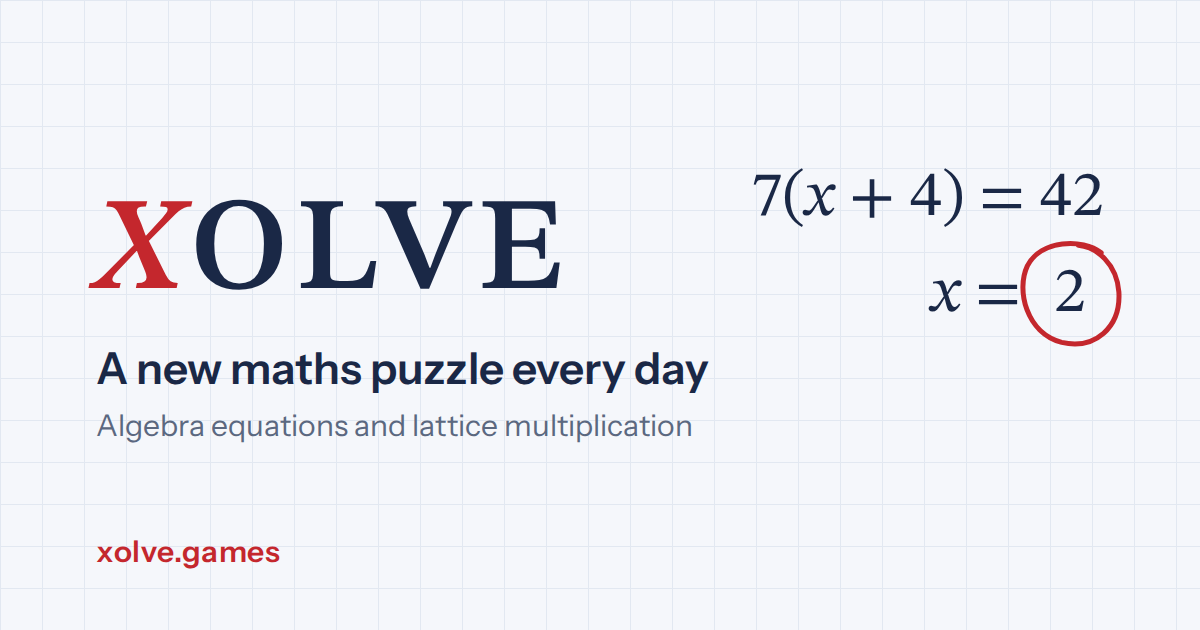
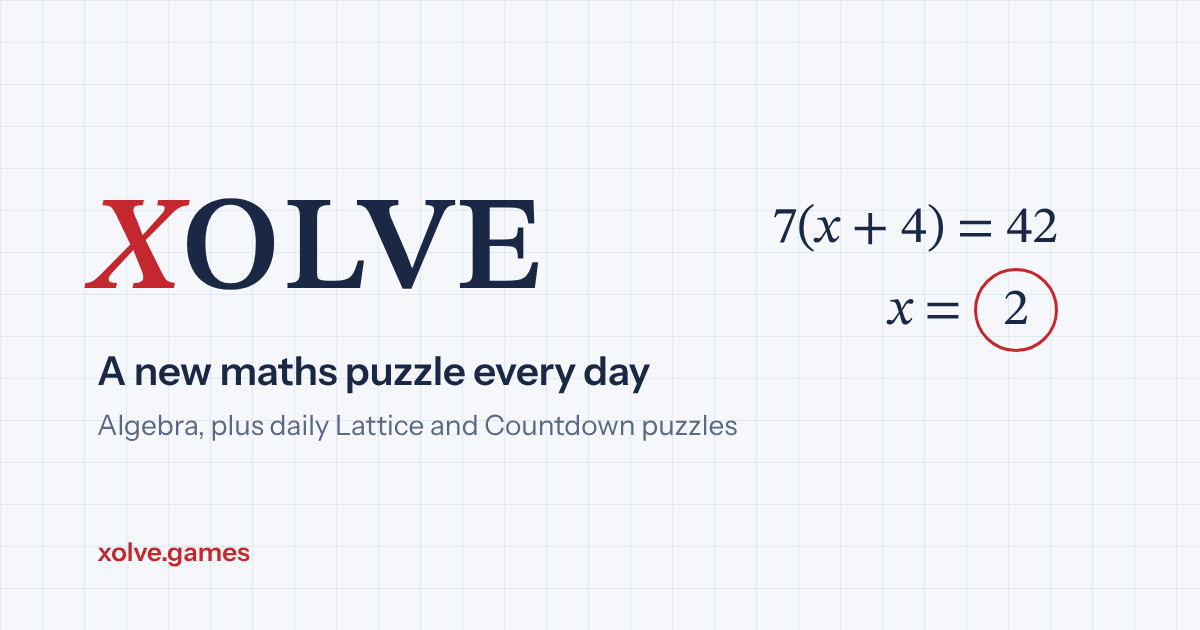
Give Lattice and Countdown their own addresses and preview cards
- shared/shell.js opens the game matching the address and updates it on tab switches
- Each game's share text links to its own address
- worker.js swaps title, description and preview image for /lattice and /countdown
- New preview images for Lattice and Countdown; home card subtitle mentions all three games
- Sitemap lists all three addresses; README documents the setup

Claude-Session: https://claude.ai/code/session_018mea3KdYw14ygfha638qX5

diff --git a/shared/shell.js b/shared/shell.js
@@ -71,6 +71,30 @@ const XolveShell = (() => {
   function register(id, game) { games[id] = game; order.push(id); }
 
   let curGame = null, mode = 'daily', today = null;
+
+  /* ---------- each game's address ----------
+     Algebra is the home page; the others have their own path. The server (worker.js)
+     sends each path its own title and link-preview card. Keep the two lists in step. */
+  const PATHS = { algebra: '/', lattice: '/lattice', countdown: '/countdown' };
+  const TITLES = {
+    algebra: 'XOLVE: a daily algebra puzzle',
+    lattice: 'XOLVE Lattice: a daily multiplication puzzle',
+    countdown: 'XOLVE Countdown: a daily numbers puzzle',
+  };
+  const served = /^https?:$/.test(location.protocol); // addresses only mean anything over HTTP
+  function gameFromPath() {
+    if (!served) return null;
+    const p = location.pathname.replace(/\/+$/, '').toLowerCase() || '/';
+    return Object.keys(PATHS).find((g) => PATHS[g] === p && games[g]) || null;
+  }
+  /* Point the address bar at game g. push: true adds a history entry (a tab tap), false replaces it. */
+  function setAddress(g, push) {
+    if (TITLES[g]) document.title = TITLES[g];
+    if (!served || !PATHS[g] || location.pathname === PATHS[g]) return;
+    try { history[push ? 'pushState' : 'replaceState']({ game: g }, '', PATHS[g] + location.search); } catch (e) {}
+  }
+  /* Full link to a game, for share text. */
+  const linkFor = (g) => 'https://xolve.games' + (PATHS[g] === '/' ? '' : PATHS[g]);
   /* The saved practice level, or medium (or the game's first level if it has no medium). */
   function levelFor(g) {
     const ids = (games[g].levels || []).map((l) => l.id), saved = store.get(games[g].levelKey);
@@ -84,8 +108,9 @@ const XolveShell = (() => {
   }
 
   /* ---------- navigation: pick a game, then Today / Archive / Practice ---------- */
-  function go(g, m) {
+  function go(g, m, push) {
     if (curGame) games[curGame].close();
+    setAddress(g, push !== false && curGame !== null && g !== curGame);
     if (m === 'practice' && games[g].practice === false) m = 'daily';
     curGame = g; mode = m;
     document.querySelector('.mode[data-mode="practice"]').hidden = games[g].practice === false;
@@ -189,6 +214,11 @@ const XolveShell = (() => {
     $('btnHelp').addEventListener('click', () => games[curGame].openHelp());
     $('btnBook').addEventListener('click', () => games[curGame].openBook());
     $('btnTheme').addEventListener('click', toggleTheme);
+    /* Back and forward between games. */
+    window.addEventListener('popstate', () => {
+      const g = gameFromPath() || order[0];
+      if (g !== curGame) go(g, mode === 'practice' && games[g].practice === false ? 'daily' : mode, false);
+    });
     darkQuery.addEventListener('change', applyTheme);
     $('introHow').addEventListener('click', () => games[curGame].openHelp());
     $('introClose').addEventListener('click', dismissIntro);
@@ -209,9 +239,9 @@ const XolveShell = (() => {
     $('intro').hidden = !!introSeen();
     wire();
     syncClock().then(() => {
-      const deps = { store, nowDate, dayInfo: Cal.dayInfo, infoFromEpoch: Cal.infoFromEpoch, toast, fmtTime, fmtDay, share: copyText, go };
+      const deps = { store, nowDate, dayInfo: Cal.dayInfo, infoFromEpoch: Cal.infoFromEpoch, toast, fmtTime, fmtDay, share: copyText, go, linkFor };
       order.forEach((g) => games[g].init(deps));
-      go(order[0], 'daily');
+      go(gameFromPath() || order[0], 'daily', false);
       setInterval(tick, 1000);
       setInterval(syncClock, 15 * 60 * 1000);
     });

diff --git a/worker.js b/worker.js
@@ -1,0 +1,62 @@
+/*
+ * XOLVE server script (Cloudflare Worker).
+ *
+ * Every file in the repo is served as-is by Cloudflare's static assets, and this script
+ * only runs for addresses that aren't a file, such as /lattice and /countdown.
+ * For those it sends the same index.html as the home page, with that game's title,
+ * description and link-preview image swapped in, so a shared link shows the right
+ * card in Discord, WhatsApp and so on. The page then opens the game from the address
+ * (see PATHS in shared/shell.js; keep the two lists in step).
+ */
+const SITE = 'https://xolve.games';
+
+const PAGES = {
+  '/lattice': {
+    title: 'XOLVE Lattice: a daily multiplication puzzle',
+    ogTitle: 'XOLVE Lattice: daily multiplication puzzles',
+    description: "Fill in the missing digits of today's lattice multiplication grid. A new puzzle every day, with hints that explain each step and streaks.",
+    image: '/images/og-lattice.png',
+    imageAlt: 'XOLVE Lattice: a lattice multiplication grid for 47 × 36',
+  },
+  '/countdown': {
+    title: 'XOLVE Countdown: a daily numbers puzzle',
+    ogTitle: 'XOLVE Countdown: daily numbers puzzles',
+    description: "Reach today's target with six numbers and + − × ÷ in 60 seconds, like the numbers round on Countdown. A new puzzle every day, with streaks.",
+    image: '/images/og-countdown.png',
+    imageAlt: 'XOLVE Countdown: the target 341 above six number tiles',
+  },
+};
+
+/* Sets one attribute on every element the selector matches. */
+const setAttr = (attr, value) => ({ element(el) { el.setAttribute(attr, value); } });
+
+export default {
+  async fetch(request, env) {
+    const url = new URL(request.url);
+    const path = url.pathname.toLowerCase();
+    const bare = path.replace(/\/+$/, '');
+
+    if (PAGES[bare]) {
+      // One address per game: /Countdown/ and friends go to /countdown.
+      if (url.pathname !== bare) return Response.redirect(SITE + bare + url.search, 301);
+
+      const page = PAGES[bare];
+      const home = await env.ASSETS.fetch(new Request(new URL('/', url), { method: request.method, headers: request.headers }));
+      if (!home.ok) return home;
+      const full = SITE + bare;
+      return new HTMLRewriter()
+        .on('title', { element(el) { el.setInnerContent(page.title); } })
+        .on('meta[name="description"]', setAttr('content', page.description))
+        .on('link[rel="canonical"]', setAttr('href', full))
+        .on('meta[property="og:url"]', setAttr('content', full))
+        .on('meta[property="og:title"]', setAttr('content', page.ogTitle))
+        .on('meta[property="og:description"]', setAttr('content', page.description))
+        .on('meta[property="og:image"]', setAttr('content', SITE + page.image))
+        .on('meta[property="og:image:alt"]', setAttr('content', page.imageAlt))
+        .transform(home);
+    }
+
+    // Anything else that isn't a file: Cloudflare's usual not-found response.
+    return env.ASSETS.fetch(request);
+  },
+};

diff --git a/index.html b/index.html
@@ -4,7 +4,7 @@
 <meta charset="utf-8">
 <meta name="viewport" content="width=device-width, initial-scale=1, viewport-fit=cover">
 <title>XOLVE: a daily algebra puzzle</title>
-  <meta name="description" content="XOLVE is a free daily maths puzzle game. Solve today's algebra equation or fill in a lattice multiplication grid, with hints, streaks and a new puzzle every day.">
+  <meta name="description" content="XOLVE is a free daily maths puzzle game. Solve today's algebra equation, then try the daily Lattice multiplication and Countdown numbers puzzles. Hints, streaks and a new puzzle every day.">
 <link rel="canonical" href="https://xolve.games/">
    <link rel="icon" href="/favicon.ico" sizes="48x48">
    <link rel="icon" type="image/png" sizes="192x192" href="/images/icon-192.png">
@@ -13,7 +13,7 @@
 <meta property="og:site_name" content="XOLVE">
 <meta property="og:url" content="https://xolve.games/">
 <meta property="og:title" content="XOLVE: daily maths puzzles">
-<meta property="og:description" content="Solve today's algebra equation or fill in a lattice multiplication grid. A new puzzle every day, with hints and streaks.">
+<meta property="og:description" content="Solve today's algebra equation in six tries, plus daily Lattice and Countdown puzzles. A new puzzle every day, with streaks.">
 <meta property="og:image" content="https://xolve.games/images/og-image.png">
 <meta property="og:image:width" content="1200">
 <meta property="og:image:height" content="630">

diff --git a/lattice/app.js b/lattice/app.js
@@ -345,7 +345,7 @@
     return [`XOLVE Lattice #${state.info.number} (${X.LEVELS[P().level].name}${state.kind === 'archive' ? ', archive' : ''})`,
       won ? `✅ Solved in ${deps.fmtTime(state.elapsed)}` : '❌ Not solved',
       `${'💡'.repeat(h) || 'No hints'}${state.checks ? `, ${state.checks} ${state.checks === 1 ? 'check' : 'checks'}` : ''}`,
-      liveStreak(loadStats()) && won && state.kind === 'daily' ? `🔥 ${liveStreak(loadStats())}` : '', 'https://xolve.games'].filter(Boolean).join('\n');
+      liveStreak(loadStats()) && won && state.kind === 'daily' ? `🔥 ${liveStreak(loadStats())}` : '', deps.linkFor('lattice')].filter(Boolean).join('\n');
   }
 
   /* ---------- timer ---------- */

diff --git a/algebra/app.js b/algebra/app.js
@@ -292,7 +292,7 @@ function shareText() {
   const streak = liveStreak(loadStats(), today.epochDay);
   return [`XOLVE #${p.id} (${LEVEL_NAMES[p.difficulty]}${game.kind === 'archive' ? ', archive' : ''})`,
     `${squares} ${won ? `${game.attempts.length}/6 in ${fmtTime(game.elapsed)}` : 'X/6'}`,
-    streak && game.kind === 'daily' ? `🔥 ${streak}` : '', 'https://xolve.games'].filter(Boolean).join('\n');
+    streak && game.kind === 'daily' ? `🔥 ${streak}` : '', deps.linkFor('algebra')].filter(Boolean).join('\n');
 }
 function share() { deps.share(shareText()); }
 /* ---------- statistics (the shell opens the dialog) ---------- */

diff --git a/countdown/app.js b/countdown/app.js
@@ -355,7 +355,7 @@
       : o === 'closest'
         ? [`I got ${b.value} in today's Xolve countdown`, `🎯 ${p.target}, ${off(b.value)} away`]
         : ["I ran out of time on today's Xolve countdown", `🎯 ${p.target}`];
-    return [`XOLVE Countdown #${state.info.number}`, ...lines, o === 'exact' && streak ? `🔥 ${streak}` : '', 'https://xolve.games'].filter(Boolean).join('\n');
+    return [`XOLVE Countdown #${state.info.number}`, ...lines, o === 'exact' && streak ? `🔥 ${streak}` : '', deps.linkFor('countdown')].filter(Boolean).join('\n');
   }
 
   /* ---------- clock ---------- */

diff --git a/README.md b/README.md
@@ -39,17 +39,27 @@ Each game lives in its own folder, and everything they share lives in `shared/`.
 | `tests/algebra.test.js` | Checks that algebra puzzles and their worked solutions are correct |
 | `tests/lattice.test.js` | Checks that every Lattice puzzle has exactly one solution and correct steps |
 | `tests/countdown.test.js` | Checks ten years of Countdown puzzles and the answer checker's rules |
-| `images/` | Icons and the link-preview image |
+| `worker.js` | Gives `/lattice` and `/countdown` their own title, description and link-preview card (see below) |
+| `images/` | Icons and the link-preview images, one per game |
 | `wrangler.jsonc`, `.assetsignore` | Cloudflare Workers settings, and the files Cloudflare shouldn't publish |
 
 There's no build step and no dependencies.
+
+## Each game's address
+
+Algebra is the home page, `xolve.games`. Lattice is `xolve.games/lattice` and Countdown is `xolve.games/countdown`.
+
+- `shared/shell.js` opens the game that matches the address, and changes the address when you switch game tabs (Back and Forward work too). Each game's share text links to its own address.
+- Cloudflare serves every real file as-is. `worker.js` only runs for addresses that aren't files: for `/lattice` and `/countdown` it sends the same `index.html` with that game's title, description and preview image swapped in, so a shared link shows the right card in Discord and elsewhere. Anything else still gets a not-found page.
+- The list of addresses lives in two places, `PATHS` in `shared/shell.js` and `PAGES` in `worker.js`. Keep them in step.
 
 ### Adding a game
 
 1. Create a folder for it, such as `countdown/`, with an `engine.js` for the puzzles and an `app.js` for the screen.
 2. In `app.js`, call `XolveShell.register()` with the game's screen, levels and functions. The comment at the top of `shared/shell.js` lists what the shell expects, and `lattice/app.js` is a complete example.
 3. Add the game's screen and a tab button (`<button class="game" data-game="...">`) to `index.html`, and its two `<script>` tags after the existing games.
-4. Add a test file to `tests/`.
+4. Give it an address: add it to `PATHS` and `TITLES` in `shared/shell.js`, to `PAGES` in `worker.js`, and to `sitemap.xml`, and make a 1200 × 630 preview image in `images/`.
+5. Add a test file to `tests/`.
 
 ## Running it locally
 
@@ -59,7 +69,11 @@ Opening `index.html` directly works, but the clock check needs the page to be se
 python -m http.server 8000
 ```
 
-Then open http://localhost:8000.
+Then open http://localhost:8000. This simple server doesn't run `worker.js`, so it only knows the home page: use the game tabs to switch games, and refresh from the home page. To try `/lattice` and `/countdown` exactly as they run live, use Cloudflare's local server instead (needs Node.js):
+
+```
+npx wrangler dev
+```
 
 ## Deploying
 
